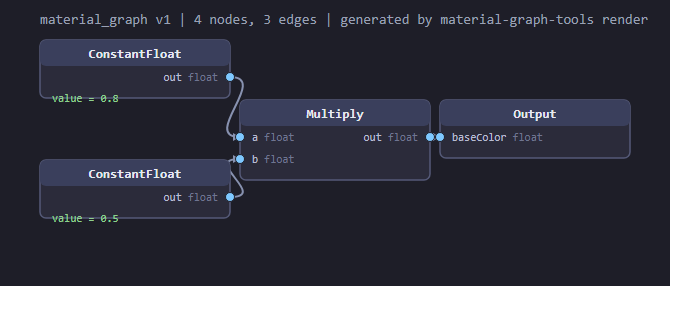
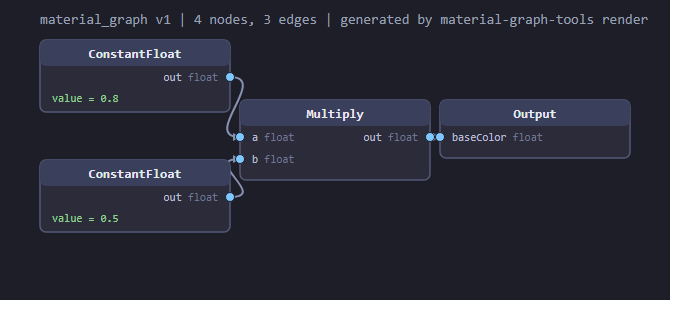
render 修复: 属性行未计入节点高度导致 value 文本溢出框外
- nodeHeight() 统一计入 propN * 14px（画布尺寸与节点框同一口径）；
  属性文本起点改为从框底反推（y + h - PAD_B - propN*14 + 4），与高度公式对应。
- 中途编译错（inN/outN 删声明后 ay 行残留引用）已一并修复。
- 证据图 b3-nodegraph.{svg,png} 同步更新：value 文本完整落在框内。

diff --git a/material-graph-tools/main.cpp b/material-graph-tools/main.cpp
@@ -312,11 +312,15 @@ int cmdRender(int argc, char** argv) {
     const float MARGIN = 40.0f;
 
     // 画布尺寸：按所有节点包围盒自适应（坐标可能是负数时整体平移）
+    // 节点高度 = 标题栏 + max(输入,输出) 引脚行 + 属性行 + 底部留白（props 也占高度，否则文字溢出框外）
+    auto nodeHeight = [&](const Node& n) {
+        int inN = 0, outN = 0, propN = (int)n.props.size();
+        for (const auto& p : n.pins) (p.isOutput ? outN : inN) += 1;
+        return TITLE_H + (inN > outN ? inN : outN) * PIN_H + propN * 14.0f + PAD_B;
+    };
     float minX = 1e9f, minY = 1e9f, maxX = -1e9f, maxY = -1e9f;
     for (const auto& n : g.nodes()) {
-        float inN = 0, outN = 0;
-        for (const auto& p : n.pins) (p.isOutput ? outN : inN) += 1;
-        float h = TITLE_H + (inN > outN ? inN : outN) * PIN_H + PAD_B;
+        float h = nodeHeight(n);
         minX = (n.x < minX) ? n.x : minX;  minY = (n.y < minY) ? n.y : minY;
         maxX = (n.x + NW > maxX) ? n.x + NW : maxX;  maxY = (n.y + h > maxY) ? n.y + h : maxY;
     }
@@ -358,9 +362,7 @@ int cmdRender(int argc, char** argv) {
 
     // 节点框 + 标题 + 引脚 + 属性值
     for (const auto& n : g.nodes()) {
-        int inN = 0, outN = 0;
-        for (const auto& p : n.pins) (p.isOutput ? outN : inN) += 1;
-        float h = TITLE_H + (inN > outN ? inN : outN) * PIN_H + PAD_B;
+        float h = nodeHeight(n);
         float x = n.x + ox, y = n.y + oy;
         svg << "<g>\n";
         svg << "<rect x=\"" << x << "\" y=\"" << y << "\" width=\"" << NW << "\" height=\"" << h
@@ -383,8 +385,8 @@ int cmdRender(int argc, char** argv) {
                 << "</tspan></text>\n";
             if (p.isOutput) ++oo; else ++ii;
         }
-        // 属性值显示在引脚区之后
-        float ay = y + TITLE_H + (inN > outN ? inN : outN) * PIN_H + 4.0f;
+        // 属性值显示在引脚区之后（行高 14 与 nodeHeight 的 propN * 14.0f 对应）
+        float ay = y + h - PAD_B - (float)n.props.size() * 14.0f + 4.0f;
         for (const auto& kv : n.props) {
             svg << "<text x=\"" << (x + 12.0f) << "\" y=\"" << (ay + 10.0f)
                 << "\" font-size=\"11\" fill=\"#8fd18f\">" << kv.first << " = "
